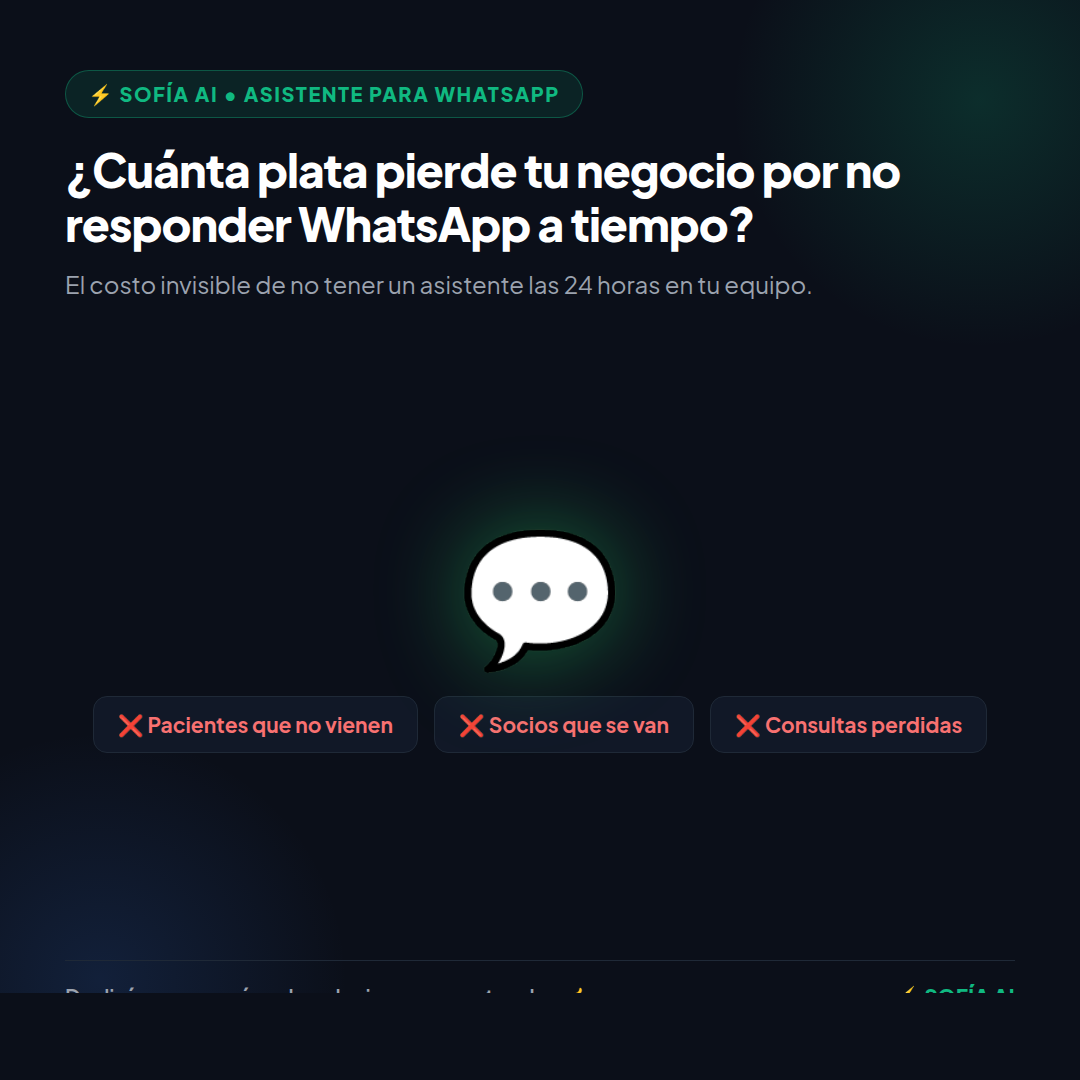
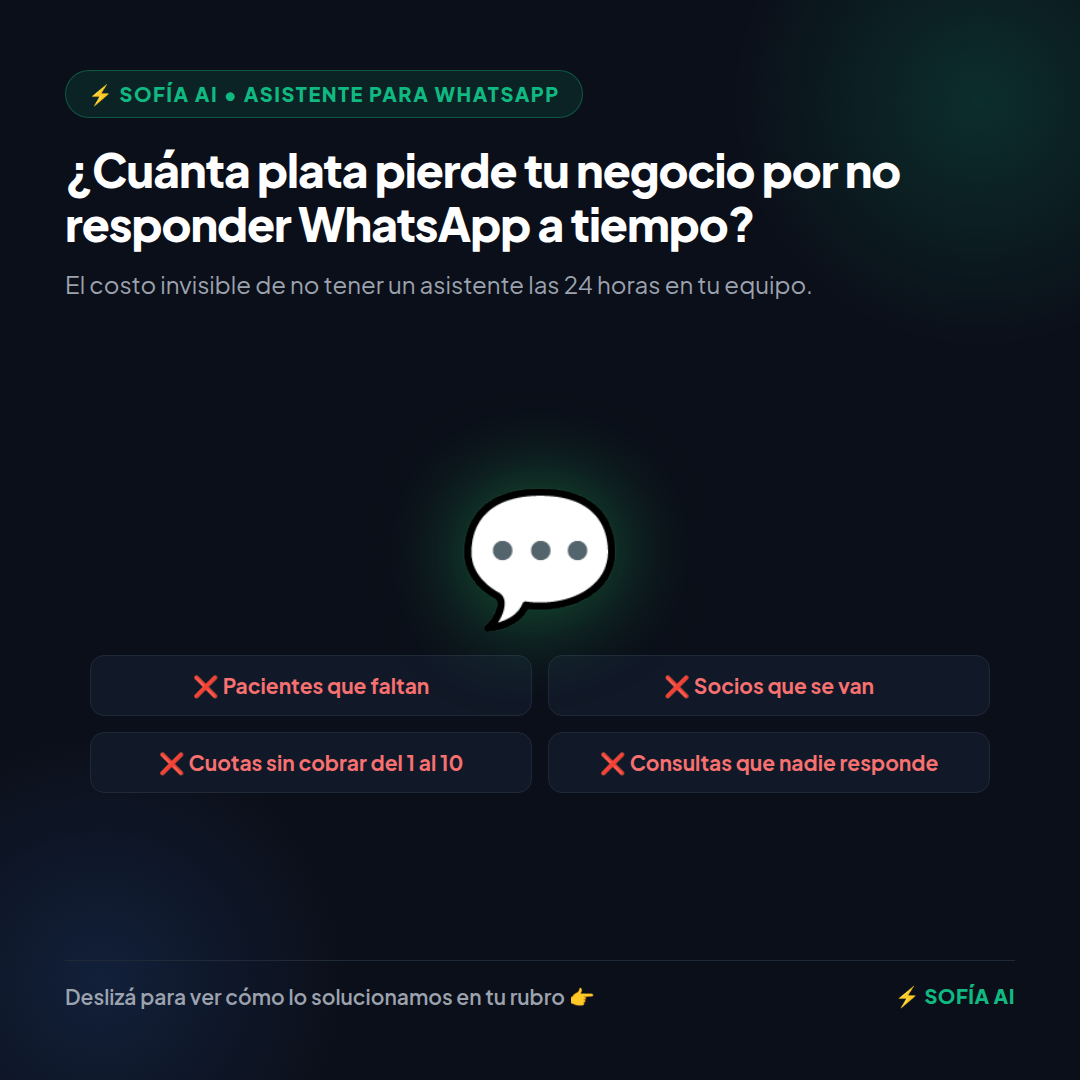
fix(carousel): fix bottom cutoff issue, add cuotas del 1 al 10 to slide 1 and gym solution

diff --git a/scripts/generate_carousel_images.py b/scripts/generate_carousel_images.py
@@ -14,9 +14,10 @@ SLIDES = [
         <div class="hero-box">
           <div class="wa-icon-glow">💬</div>
           <div class="stats-pills">
-            <div class="pill">❌ Pacientes que no vienen</div>
+            <div class="pill">❌ Pacientes que faltan</div>
             <div class="pill">❌ Socios que se van</div>
-            <div class="pill">❌ Consultas perdidas</div>
+            <div class="pill">❌ Cuotas sin cobrar del 1 al 10</div>
+            <div class="pill">❌ Consultas que nadie responde</div>
           </div>
         </div>
         """,
@@ -54,7 +55,7 @@ SLIDES = [
           </div>
           <div class="card solution">
             <div class="card-tag">✅ Con Sofía AI (En Automático)</div>
-            <p>• <strong>Campañas de Reactivación:</strong> detecta socios inactivos (+60 días) y les escribe con mensajes cálidos.<br>• Informa precios y anota pases 24/7.</p>
+            <p>• <strong>Campañas de Reactivación:</strong> detecta socios inactivos (+60 días) y les escribe con mensajes cálidos.<br>• <strong>Cobro de Cuotas (1 al 10):</strong> recordatorio automático con link de pago.<br>• Informa precios y anota pases 24/7.</p>
           </div>
         </div>
         """,
@@ -190,19 +191,25 @@ HTML_TEMPLATE = """<!DOCTYPE html>
     margin-bottom: 20px;
   }
   .stats-pills {
-    display: flex;
+    display: grid;
+    grid-template-columns: repeat(2, 1fr);
     gap: 16px;
-    flex-wrap: wrap;
-    justify-content: center;
+    width: 100%;
+    max-width: 900px;
+    margin: 0 auto;
   }
   .pill {
     background: #111827;
     border: 1px solid #1F2937;
-    padding: 14px 24px;
+    padding: 16px 20px;
     border-radius: 14px;
     font-size: 21px;
     font-weight: 700;
     color: #F87171;
+    display: flex;
+    align-items: center;
+    justify-content: center;
+    text-align: center;
   }
   .cards-stack {
     display: flex;
@@ -338,13 +345,18 @@ def generate_slides():
             "google-chrome",
             "--headless=new",
             "--disable-gpu",
-            "--window-size=1080,1080",
+            "--window-size=1080,1167",
             f"--screenshot={out_png}",
             temp_html
         ]
         subprocess.run(cmd, check=True)
+        # Recortar exactamente a 1080x1080 para eliminar el offset de ventana headless y asegurar placa completa
+        from PIL import Image
+        im = Image.open(out_png)
+        im_1080 = im.crop((0, 0, 1080, 1080))
+        im_1080.save(out_png, optimize=True)
         size_kb = os.path.getsize(out_png) / 1024
-        print(f"✅ Placa {idx}/5 lista: {slide['filename']} ({size_kb:.1f} KB)")
+        print(f"✅ Placa {idx}/5 lista y completa: {slide['filename']} ({size_kb:.1f} KB)")
         
     print(f"\n🎉 ¡Todas las placas fueron creadas con éxito en: {OUTPUT_DIR}!")
 

diff --git a/docs/anuncios_meta_ads_sofia.md b/docs/anuncios_meta_ads_sofia.md
@@ -148,12 +148,15 @@ Guía definitiva de copys de alta conversión, segmentación y llamados a la acc
 * **Formato:** Cuadrado (1:1 / 1080x1080 px) o Vertical (4:5 / 1080x1350 px para mayor cobertura en el feed de Instagram y Facebook).
 
 ### 📱 Placa 1: La Portada (El Gancho que frena el scroll)
-* **Visual:** Fondo oscuro tecnológico, ícono de WhatsApp con alertas rojas flotando.
+* **Visual:** Fondo oscuro tecnológico, ícono de WhatsApp con alertas rojas flotando en grilla 2x2.
 * **Texto Principal (Grande y Centrado):**
   > **¿Cuánta plata pierde tu negocio por no responder WhatsApp a tiempo?**
+* **Pastillas de dolor (Dolores clave):**
+  > ❌ Pacientes que faltan • ❌ Socios que se van  
+  > ❌ Cuotas sin cobrar del 1 al 10 • ❌ Consultas que nadie responde
 * **Subtexto inferior:**
   > *El costo invisible de no tener a Sofía en tu equipo.*  
-  > *(Deslizá para ver tu rubro 👉)*
+  > *(Deslizá para ver cómo lo solucionamos en tu rubro 👉)*
 
 ### 🏥 Placa 2: Clínicas y Consultorios Médicos
 * **Visual:** Fondo oscuro con detalle cian médico, ícono de consultorio 🩺 o calendario.
@@ -171,9 +174,9 @@ Guía definitiva de copys de alta conversión, segmentación y llamados a la acc
   > **GIMNASIOS Y FITNESS**
 * **El Dolor vs La Solución:**
   > ❌ **El problema:** Decenas de socios que dejan de ir y nadie tiene tiempo de contactarlos uno por uno.  
-  > ✅ **Con Sofía:** **Campañas automáticas de reactivación** para recuperar ex-socios dormidos (+60 días) y avisos cordiales de cuota.
+  > ✅ **Con Sofía:** **Campañas automáticas de reactivación** (+60 días dormidos), **cobro de cuotas del 1 al 10** en automático y atención 24/7.
 * **Frase inferior:**
-  > *Recuperá cuotas y alumnos que dabas por perdidos.*
+  > *Recuperá ingresos todos los meses sin mover un dedo.*
 
 ### 🐾 Placa 4: Veterinarias y Pet Shops
 * **Visual:** Fondo oscuro con detalle cálido, ícono de mascota 🐶💉.
